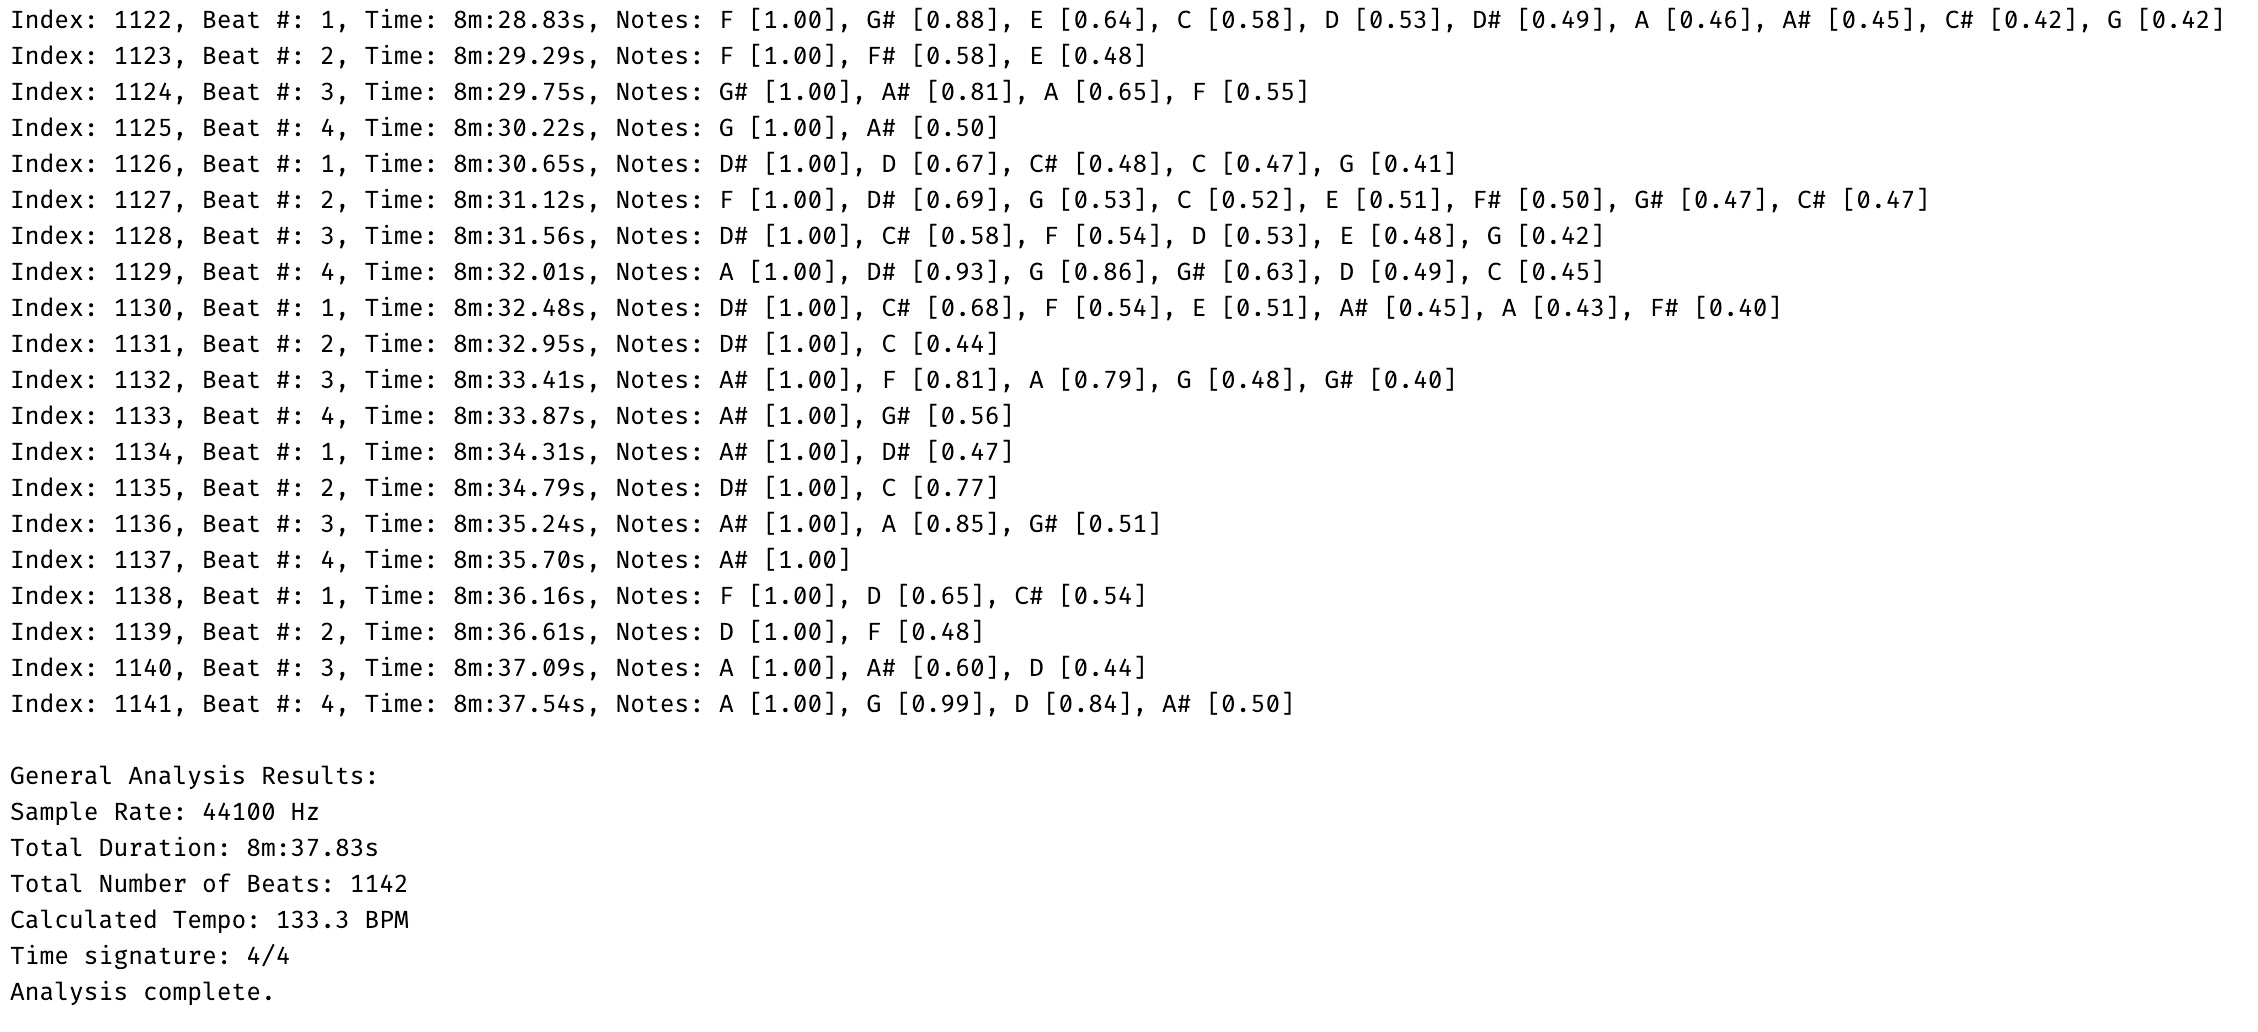
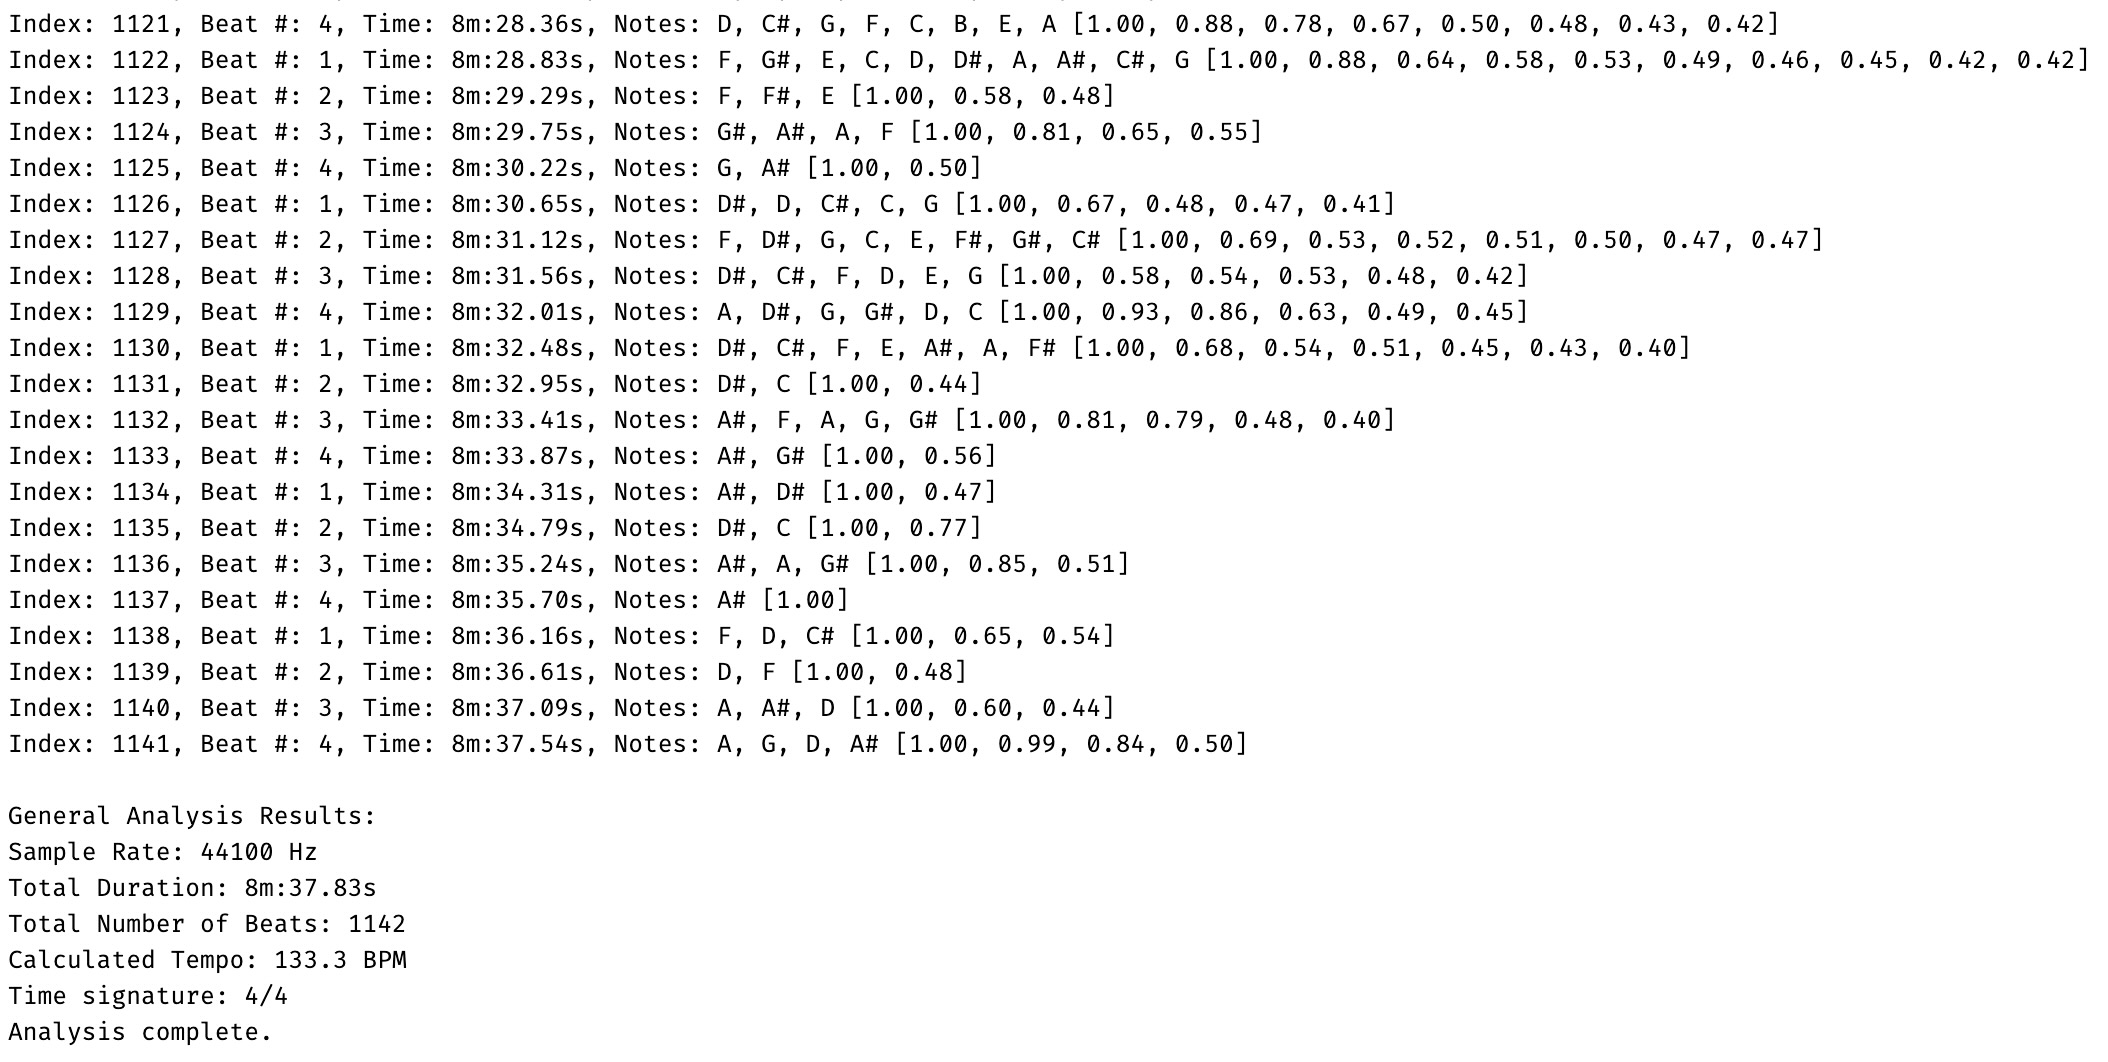
minor clean up
meant to structure this way

Changed region(s): [[0.0, 0.0, 0.9867, 0.7132], [0.0, 0.7442, 0.185, 0.9922]]

diff --git a/my_madmom_python311_main.py b/my_madmom_python311_main.py
@@ -1,0 +1,179 @@
+"""
+Simple demo for use of madmom with Python 3.11
+
+Imports an audio file
+Applies madmom RNNDownBeatProcessor() to get beat activations
+Applies madmom DBNDownBeatTrackingProcessor() to get beat times and downbeats.
+    - uses myDBNDownBeatTrackingProcessor() to operate in the current environment
+
+(c) Michael Gazier, 2024
+MIT License
+"""
+from pydub import AudioSegment
+import os
+import librosa
+from datetime import datetime
+
+# fix Python 3.11 issues in madmom
+import collections.abc
+collections.MutableSequence = collections.abc.MutableSequence  # Alias MutableSequence to avoid deprecation issues
+import numpy as np
+np.float = float
+np.int = int
+# import madmom
+from madmom.features.downbeats import RNNDownBeatProcessor
+from my_madmom_downbeat_processor import myDBNDownBeatTrackingProcessor
+
+def get_waveform(path):
+    """
+    Load the waveform using pydub and retrieve the sample rate from the file.
+    Should be 44.1kHz for Madmom
+    Any format with ffmpeg
+    """
+    print("Loading waveform using pydub...")
+    audio = AudioSegment.from_file(path)
+    _sr = audio.frame_rate  # Get the sample rate from the file
+
+    # Resample and convert to mono if stereo
+    if audio.channels > 1:
+        audio = audio.set_channels(1)
+
+    # Convert pydub audio to numpy array
+    # Normalization: The division by 2**15, 2**31, or 2**7 is to convert integer
+    # PCM values to floating-point format, similar to what librosa.load provides by default
+    _samples = np.array(audio.get_array_of_samples())
+    if audio.sample_width == 2:
+        _samples = _samples.astype(np.float32) / 2 ** 15
+    elif audio.sample_width == 4:
+        _samples = _samples.astype(np.float32) / 2 ** 31
+    else:
+        _samples = _samples.astype(np.float32) / 2 ** 7  # Assuming 8-bit audio
+
+    # Normalize by the number of channels
+    _samples = _samples / audio.channels
+
+    # Calculate the duration
+    duration_ms = len(_samples) / _sr * 1000
+    minutes, seconds = divmod(duration_ms / 1000, 60)
+
+    print(f"Waveform loaded successfully: {int(minutes)}m:{seconds:.2f}s source audio")
+    return _samples, _sr
+
+def analyze_audio_beats_and_bpm(audio, _sr, min_bpm=None, max_bpm=None):
+    """
+    Analyze audio data for beats, downbeats, tempo, and musical notes.
+    min_bpm and max_bpm None mean use defaults of 55 and 170
+    """
+    print("Analyzing audio data...")
+    beat_data = {
+        'sample_rate': _sr,
+        'duration': librosa.get_duration(y=audio, sr=_sr),
+    }
+    if min_bpm is None:
+        min_bpm = 55
+    if max_bpm is None:
+        max_bpm = 170
+
+    # Processing beats and downbeats using the custom downbeat processor
+    print(f"Executing RNNDownBeatProcessor [slow, about 6 sec / min source audio on MacM1max]...{datetime.now().strftime('%Y-%m-%d %H:%M:%S')}")
+    downbeat_processor = RNNDownBeatProcessor()
+    activations = downbeat_processor(audio)
+    print(f"Done RNNDownBeatProcessor ...{datetime.now().strftime('%Y-%m-%d %H:%M:%S')}")
+    dbn_processor = myDBNDownBeatTrackingProcessor(beats_per_bar=[3, 4], fps=100, min_bpm=min_bpm, max_bpm=max_bpm)
+    beats_and_downbeats = dbn_processor(activations, quiet=False)
+
+    beat_times = beats_and_downbeats[:, 0]
+    beat_number_in_bar = beats_and_downbeats[:, 1].astype(int)  # the beat # 1-3 or 1-4
+
+    # Data aggregation for output
+    beat_data['number_of_beats'] = len(beat_times)
+    beat_data['beat_times'] = beat_times.tolist()
+    beat_data['beat_numbers'] = beat_number_in_bar.tolist()
+
+    # Extracting downbeats (first beat of each bar)
+    downbeats = beats_and_downbeats[beat_number_in_bar == 1]  # the beat # 1-3 or 1-4
+    beat_data['downbeats'] = list(zip(downbeats[:, 0], ['Beat 1'] * len(downbeats)))  # beat 1 represents downbeat
+
+    # Compute the tempo if enough beats are detected
+    if len(beat_times) > 1:
+        intervals = np.diff(beat_times)  # Calculate the differences between consecutive beat times
+        tempo = 60 / np.median(intervals) if intervals.size > 0 else 0  # Median interval converted to BPM
+    else:
+        tempo = 0  # Default to zero if not enough beats to calculate intervals
+    beat_data['tempo_float'] = tempo
+
+    # time_signature 3/4 or 4/4 for this audio segment
+    largest_beat_number = max(beat_number_in_bar) # max of beat+number 1-3 or 1-4
+    beat_data['time_signature'] = f"{largest_beat_number}/4"
+
+    # extract notes/chroma
+    beat_data['chroma'] = extract_chroma_features(audio, _sr, beat_times, beat_number_in_bar)
+
+    print("Completed audio analysis...")
+    return beat_data
+
+def extract_chroma_features(audio, _sr, beat_times, beat_positions_in_bar):
+    """
+    Extract chroma features from the audio and map beat times to the nearest chroma frame
+    """
+    print("Extracting spectral features... ")
+    print("List the notes / intensity at each beat ordered by their chroma intensity from highest to lowest")
+    chroma = librosa.feature.chroma_cqt(y=audio, sr=_sr, hop_length=512)
+
+    frame_times = librosa.frames_to_time(range(chroma.shape[1]), sr=_sr, hop_length=512)
+    note_names = ['C', 'C#', 'D', 'D#', 'E', 'F', 'F#', 'G', 'G#', 'A', 'A#', 'B']
+
+    # Map beat times to the nearest chroma frame and retrieve corresponding notes
+    beat_frames = np.searchsorted(frame_times, beat_times, side='left')
+    beat_chroma = [
+        sorted(
+            [(note_names[i], chroma[i, frame]) for i in np.where(chroma[:, frame] >= MIN_CHROMA)[0]],
+            key=lambda x: x[1],
+            reverse=True
+        )
+        if frame < chroma.shape[1] else [('N/A', 0)]
+        for frame in beat_frames
+    ]
+
+    return beat_chroma
+
+def print_data(_beat_data, _filename, quiet=True):
+    """
+    Print the results of the audio analysis.
+    quiet True means don't print all detected beats and notes [chroma]
+    """
+    print(f"\nRESULTS OF ANALYSIS for '{_filename}'\n===================================================================================================")
+
+    # Printing detailed information about beats and downbeats
+    if not quiet:
+        print(f"All Detected Beats (index, beat #, time, and note with chroma [for chroma {MIN_CHROMA} .. 1.0]):\n")
+
+        for idx, (time, beat_num, notes) in enumerate(zip(_beat_data['beat_times'], _beat_data['beat_numbers'], _beat_data['chroma'])):
+            minutes, seconds = divmod(time, 60)
+            time_str = f"{int(minutes)}m:{seconds:.2f}s"
+            note_list = [f"{note}" for note, chroma in notes]
+            chroma_list = [f"{chroma:.2f}" for note, chroma in notes]
+            notes_str = ', '.join(note_list) + " [" + ', '.join(chroma_list) + "]"
+            print(f"Index: {idx}, Beat #: {beat_num}, Time: {time_str}, Notes: {notes_str}")
+
+    # Printing basic audio and analysis metrics
+    print("\nGeneral Analysis Results:")
+    print(f"Sample Rate: {_beat_data['sample_rate']} Hz")
+    minutes, seconds = divmod(_beat_data['duration'], 60)
+    time_str = f"{int(minutes)}m:{seconds:.2f}s"
+    print(f"Total Duration: {time_str}")
+    print(f"Total Number of Beats: {_beat_data['number_of_beats']}")
+    # Printing tempo calculated from beat intervals
+    print(f"Calculated Tempo: {_beat_data['tempo_float']:.1f} BPM")
+    print(f"Time signature: {_beat_data['time_signature']}")  # time_signature 3/4 or 4/4 (string)
+
+if __name__ == '__main__':
+    ROOT_DIR = "/my/path/"
+    filename = "downbeat tracker test.m4a"
+    filePath = os.path.join(ROOT_DIR, filename)
+    samples, sr = get_waveform(filePath)
+    # should be 44.1kHz
+    MIN_CHROMA = 0.4  # default is 0.5
+    data = analyze_audio_beats_and_bpm(samples, sr, min_bpm=None, max_bpm=None)
+    print_data(data, filename, quiet = False)
+    print("Analysis complete.")
